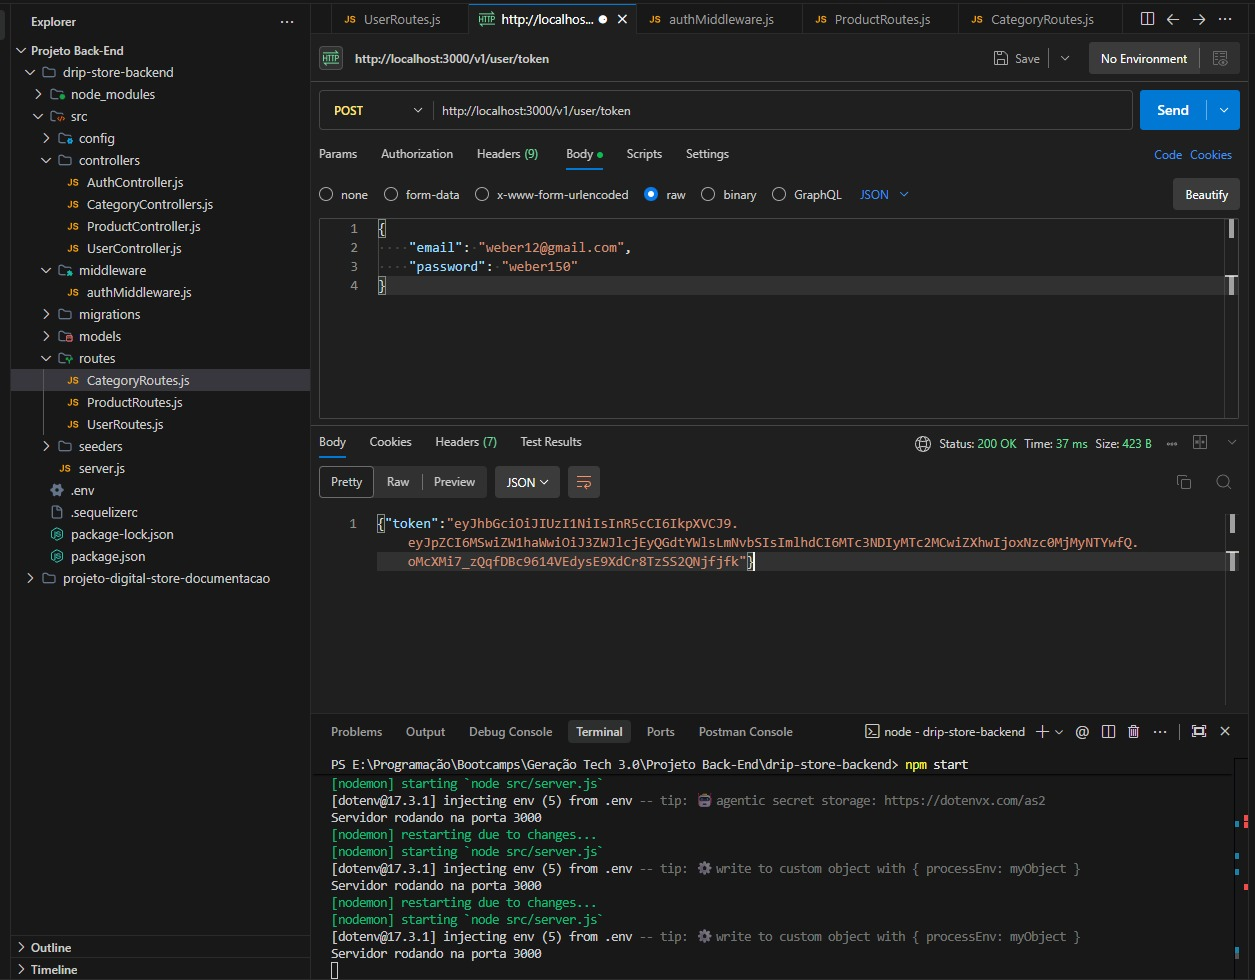
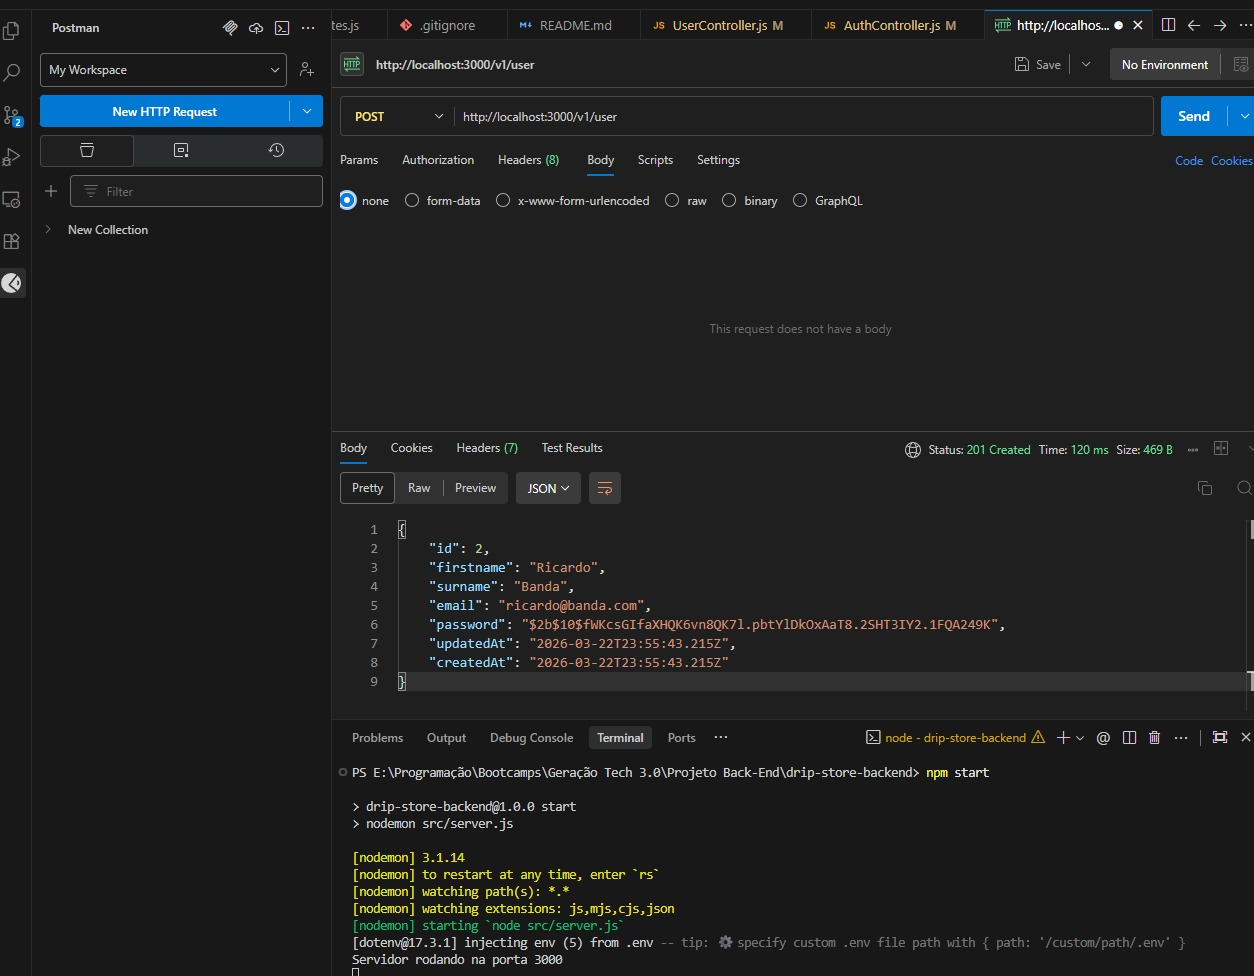
fix(security): implementacao do bcrypt para senhas e confirmPassword check

diff --git a/src/controllers/UserController.js b/src/controllers/UserController.js
@@ -1,18 +1,28 @@
 const e = require('express');
 const { User } = require('../models'); // Importa a tabela de usuários
+const bcrypt = require('bcrypt');
 
 const UserController = {
     // Função para criar um novo usuário (POST)
     async create(req, res) {
         try {
             // Recebe os dados do corpo da requisição
-            const { firstname, surname, email, password } = req.body;
+            const { firstname, surname, email, password, confirmPassword } = req.body;
+
+            // Checando se a senha bate (confirmPassword)
+            if (password !== confirmPassword) {
+                return res.status(400).json({ message: "As senhas não coincidem." });
+            }
+
+            // Criptografando a senha com bcrypt
+            const passwordHash = await bcrypt.hash(password, 10);
+
             // Cria o novo usuário no banco de dados com Sequelize (INSERT INTO)
             const newUser = await User.create({
                 firstname,
                 surname,
                 email,
-                password
+                password: passwordHash
             });
             // Retorna o usuário criado com status 201 (Created)
             return res.status(201).json(newUser);

diff --git a/src/controllers/AuthController.js b/src/controllers/AuthController.js
@@ -15,8 +15,9 @@ const AuthController = {
                 return res.status(400).json({ message: "Credenciais inválidas" });
             }
 
-            // Se email tiver no banco de dados verifica se a senha confere
-            if (password !== user.password) {
+            // Se email tiver no banco de dados verifica a senha criptograda com bcrypt (analisa o hash)
+            const isMatch = await bcrypt.compare(password, user.password);
+            if (!isMatch) {
                 return res.status(400).json({ message: "Credenciais inválidas" });
             }
 
